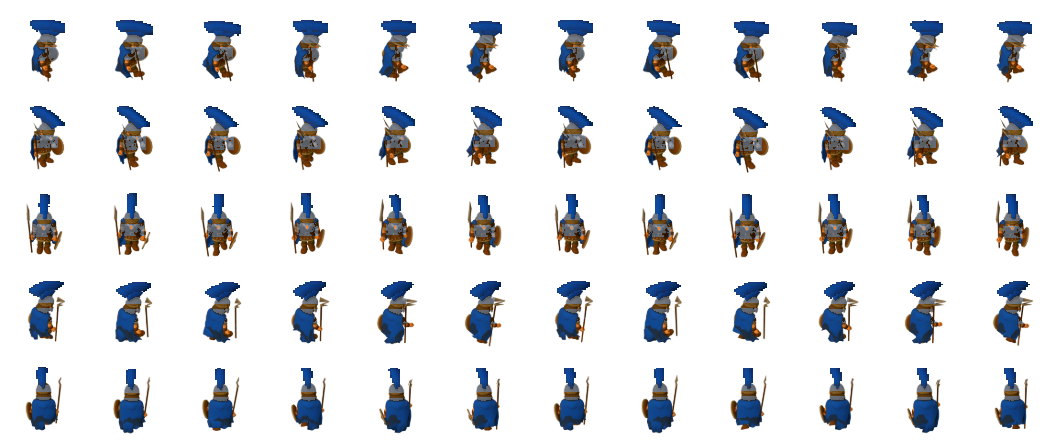
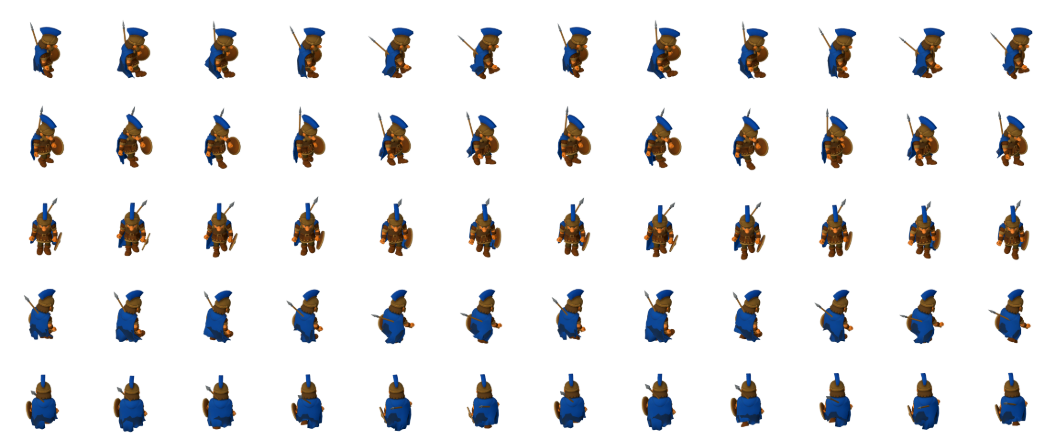
T15 Arbeitsstand: Kinematik-Agent 2 - Faust-Waffen fuer sword/spear (Agent laeuft)
Zwischenstand: Mesh-Klinge/-Speer werden ersetzt (Skinning-Grenze:
Waffen hingen an der Oberarmkette, Ueberkopf unmoeglich - der
"Golfschlag"). Prozedurale kinds sword/spearw in der Sprite-Baeckerei,
sechs Blaetter (sword/spear x atk/walk/idle) gebacken, Agent iteriert
noch am Feinschliff. Abschluss, Sichtpruefung und sw-Bump folgen im
v235-Paket.

Claude-Session: https://claude.ai/code/session_01NJiXwFpbq91ri9gPbhzERB

diff --git a/tools/posen.js b/tools/posen.js
@@ -229,7 +229,7 @@ const SCHAUFELN = [
           L_Upperarm:[33,0,-12], L_Forearm:[-42,0,0],
           Spine01:[-10,-4,0], Head:[6,1,0] }],
 ];
-// ---------- Soldaten (T14) ------------------------------------------------
+// ---------- Soldaten (T14/T16) --------------------------------------------
 // Die Tripo-Angriffs-Clips der Soldaten (1.29 s) ZERFETZEN Helmbusch und
 // Umhang in freischwebende Fragmente, teils fehlen ganze Spalten (s. die
 // zerrissenen Blaetter unit_sword_atk/unit_spear_atk/unit_bow_atk vom
@@ -237,84 +237,93 @@ const SCHAUFELN = [
 // Zerreissen kommt also vom Clip, nicht vom Mesh. Heilung wie bei den
 // Berufen: handgesetzte Schluesselbilder ueber der ruhigen Basis (die
 // Soldaten haben keinen echten Warte-Clip, der Treiber nimmt den
-// Geh-Durchschwung bei 27 %). Die Waffen stecken im Mesh - KEIN
-// prozedurales Werkzeug anbringen (sonst Doppelwaffe). ABER: sie sind
-// NICHT an die Handknochen geskinnt (numerisch geprueft, posekalib):
-// Klinge und Speer haengen an der Oberarmkette (~60 % des Armwinkels,
-// Drehpunkt Schulter), der Bogen an der LINKEN Faust samt Twist-Knochen.
-// Die Posen unten arbeiten innerhalb dieser Grenzen.
+// Geh-Durchschwung bei 27 %).
 //
-// SCHWERT: Hieb von oben-seitlich, der Schild bleibt vorn. Rechter Arm
-// holt uebers rechte Schulterblatt aus (Rumpf dreht Y+ mit), verharrt
-// kurz, dann faellt der Hieb in 0.8 Frames quer nach vorn-unten
-// (Kontakt Spalte 4). Der linke Arm haelt den Schild konstant vor der
-// Brust - er macht den Hieb NICHT mit, das laese sich als Torkeln.
-// GRENZE (numerisch geprueft, pose-sword.png): die Klinge ist NUR an die
-// Oberarmkette geskinnt - R_Hand/R_Forearm bewegen sie gar nicht, sie
-// dreht mit ~60 % des Oberarmwinkels um die SCHULTER. Ausholen ueber den
-// Kopf (Klinge nach hinten-oben) ist damit unerreichbar; das Maximum ist
-// die Diagonale vor der Schulter. Faust-Drehungen bleiben deshalb WEG -
-// sie wuerden die Faust nur sichtbar vom Griff loesen.
+// T16 (Spielerkritik "Golfspielen"): die MESH-Waffen von sword/spear sind
+// NUR an die Oberarmkette geskinnt (~60 % des Armwinkels, Drehpunkt
+// Schulter) - Faust und Ellbogen bewegen sie nicht, mehr als eine flache
+// Diagonale war damit unerreichbar. Darum jetzt die Jaeger-Methode:
+// Mesh-Klinge/-Speer per 'entfernen' raus (Insel-IDs unten, verifiziert
+// ueber Isolationsproben waffe2-sword/waffe3-spear), stattdessen
+// prozedurale Faust-Waffen (kinds 'sword'/'spearw' in bake-sprites.html).
+// Die Waffe haengt an R_Hand - Faust-Drehungen sind WIRKSAM und tragen
+// die Pose. Der SCHILD bleibt im Mesh (sitzt sauber am linken Unterarm).
+// Nur der bow-Soldat behaelt seine Mesh-Waffe (linke Faust, ok).
+//
+// SCHWERT: WUCHTIGER Ueberkopf-Hieb. Faust-Winkel per kalibw-Montagen
+// vermessen (kalib-sword2/3.png) - die Faust-X-Achse wirkt oben und
+// unten GEGENLAEUFIG (Quaternion-Komposition, kein lineares Modell):
+//   Garde (Up40/Fa-55): Hand +40 hebt die Klinge auf ~+45 Grad,
+//   Ausholen (Up165/Fa-100): Hand +10 legt sie ~45 Grad HINTER den Kopf
+//     (Hand -80 kippte sie faelschlich nach VORN - sah aus wie ein Winken),
+//   Kontakt (Up62/Fa-6): Hand -45 stellt sie vor-unten (~-20 Grad;
+//     positive Werte druecken sie senkrecht zu Boden = alter "Golfschlag").
+// Ablauf: Garde - Klinge steigt - volles Ueberkopf-Ausholen mit
+// Rumpf-Aufdrehen (Y+22) - kurzes Verharren - der Hieb kracht in 0.9
+// Frames nach vorn-unten: Arm gestreckt, Rumpf beugt kraeftig vor und
+// dreht gegen, Knie federn. Kontakt Spalte 4, Verharren im Ziel,
+// zurueck. Der linke Arm haelt den Schild konstant vor der Brust.
 const SCHWERTHIEB = [
-  [0,   { R_Upperarm:[32,0,-8],  R_Forearm:[-42,0,0],                // Bereitschaft
+  [0,   { R_Upperarm:[40,0,-8],  R_Forearm:[-55,0,0], R_Hand:[40,0,0],  // Bereitschaft (Garde)
           L_Upperarm:[38,0,-6],  L_Forearm:[-66,0,0],
           Spine01:[-6,6,0], Head:[4,-2,0] }],
-  [1.4, { R_Upperarm:[112,0,-18],R_Forearm:[-74,0,0],                // Klinge steigt
+  [1.2, { R_Upperarm:[112,0,-14],R_Forearm:[-80,0,0], R_Hand:[25,0,0],  // Klinge steigt
           L_Upperarm:[40,0,-6],  L_Forearm:[-68,0,0],
-          Spine01:[8,16,0], Spine02:[3,7,0], Head:[5,-7,0],
+          Spine01:[8,14,0], Spine02:[3,6,0], Head:[5,-6,0],
           R_Thigh:[3,0,0], L_Thigh:[3,0,0] }],
-  [2.4, { R_Upperarm:[154,0,-26],R_Forearm:[-86,0,0],                // volles Ausholen
+  [2.3, { R_Upperarm:[165,0,-18],R_Forearm:[-100,0,0],R_Hand:[-5,0,0],  // Klinge HINTER dem Kopf
+          L_Upperarm:[42,0,-7],  L_Forearm:[-70,0,0],                   // (Hand -5 statt +10: bei
+          Spine01:[16,22,0], Spine02:[7,9,0], Head:[8,-10,0],           // +10 verschwand die Klinge
+          R_Thigh:[4,0,0], L_Thigh:[4,0,0] }],                          // auf 35px im Helmbusch)
+  [3.1, { R_Upperarm:[158,0,-17],R_Forearm:[-95,0,0], R_Hand:[-6,0,0],  // Verharren oben
           L_Upperarm:[42,0,-7],  L_Forearm:[-70,0,0],
-          Spine01:[14,24,0], Spine02:[6,10,0], Head:[7,-10,0],
+          Spine01:[14,20,0], Spine02:[6,8,0], Head:[8,-9,0],
           R_Thigh:[4,0,0], L_Thigh:[4,0,0] }],
-  [3.2, { R_Upperarm:[146,0,-24],R_Forearm:[-82,0,0],                // Verharren oben
-          L_Upperarm:[42,0,-7],  L_Forearm:[-70,0,0],
-          Spine01:[12,22,0], Spine02:[5,9,0], Head:[7,-9,0],
-          R_Thigh:[4,0,0], L_Thigh:[4,0,0] }],
-  [4,   { R_Upperarm:[62,0,6],   R_Forearm:[-6,0,0],                 // KONTAKT
+  [4,   { R_Upperarm:[62,0,4],   R_Forearm:[-6,0,0],  R_Hand:[-45,0,0], // KONTAKT
           L_Upperarm:[40,0,-6],  L_Forearm:[-62,0,0],
-          Spine01:[-22,-14,0], Spine02:[-9,-6,0], Head:[12,6,0],
-          R_Thigh:[-7,0,0], R_Calf:[9,0,0], L_Thigh:[-6,0,0], L_Calf:[8,0,0] }],
-  [5,   { R_Upperarm:[66,0,4],   R_Forearm:[-10,0,0],                // Klinge steht
+          Spine01:[-30,-12,0], Spine02:[-11,-5,0], Head:[15,5,0],
+          R_Thigh:[-8,0,0], R_Calf:[10,0,0], L_Thigh:[-7,0,0], L_Calf:[9,0,0] }],
+  [5,   { R_Upperarm:[66,0,3],   R_Forearm:[-10,0,0], R_Hand:[-42,0,0], // Klinge steht im Ziel
           L_Upperarm:[40,0,-6],  L_Forearm:[-64,0,0],
-          Spine01:[-20,-12,0], Spine02:[-8,-5,0], Head:[11,5,0],
-          R_Thigh:[-6,0,0], R_Calf:[8,0,0], L_Thigh:[-5,0,0], L_Calf:[7,0,0] }],
-  [6.5, { R_Upperarm:[44,0,-8],  R_Forearm:[-36,0,0],                // zurueck
+          Spine01:[-27,-10,0], Spine02:[-10,-4,0], Head:[14,4,0],
+          R_Thigh:[-7,0,0], R_Calf:[9,0,0], L_Thigh:[-6,0,0], L_Calf:[8,0,0] }],
+  [6.5, { R_Upperarm:[46,0,-8],  R_Forearm:[-40,0,0], R_Hand:[-10,0,0], // zurueck zur Garde
           L_Upperarm:[39,0,-6],  L_Forearm:[-67,0,0],
           Spine01:[-10,2,0], Head:[6,0,0] }],
 ];
-// SPEER: Stoss nach vorn-oben. GRENZE (numerisch geprueft, pose-spear.png):
-// der Speer ist wie die Klinge NUR an die Oberarmkette geskinnt - Faust
-// und Ellbogen bewegen ihn nicht, er dreht mit ~60 % des Oberarmwinkels
-// um die SCHULTER und loest sich bei gestrecktem Arm sichtbar von der
-// Faust. Ein waagerechter Stoss ist damit unerreichbar; das Machbare ist
-// der DIAGONALE Stoss (Speer ~55 Grad, Spitze vor-oben) mit kraeftigem
-// Koerper-Ausfall. Damit die Faust optisch am Schaft bleibt, ist der
-// Ellbogen am Kontakt mitgebeugt (Up105/Fa-45 aus der Montage - bei
-// Fa-6 stand die Faust eine halbe Handbreit neben dem Schaft).
+// SPEER: Stoss auf Hueft-Hoehe. Faust-Winkel per kalibw-Montagen vermessen
+// (kalib-spear1/2.png): am Kontakt macht Hand X-50 den Schaft exakt
+// WAAGERECHT (h-24 zeigte 35 Grad hoch, h-75 kippte in den Boden); die
+// Spannpose W4 (Up4/Fa-30/Hand-55) legt ihn waagerecht AN DIE HUEFTE -
+// ein weiter zurueckgerissener Arm (Up -30) versteckte den Speer komplett
+// hinter Ruecken und Umhang, nur die Spitze lugte am Helm hervor.
+// Ablauf: Bereitschaft diagonal - zuruecknehmen an die Huefte (Gewicht
+// hinten, Rumpf-Yaw +26 auf) - gespannt verharren - STOSS: Arm streckt
+// nach vorn, Schaft bleibt waagerecht, Rumpf dreht kraeftig gegen (Y-16)
+// und lehnt in den Ausfall, Knie federn. Kontakt Spalte 4.
 const SPEERSTOSS = [
-  [0,   { R_Upperarm:[4,0,-4],   R_Forearm:[-10,0,0],                // Bereitschaft
+  [0,   { R_Upperarm:[16,0,-4],  R_Forearm:[-14,0,0], R_Hand:[-25,0,0], // Bereitschaft (diagonal)
           L_Upperarm:[26,0,-10], L_Forearm:[-44,0,0],
           Spine01:[-4,4,0], Head:[3,0,0] }],
-  [1.6, { R_Upperarm:[-12,0,-8], R_Forearm:[-26,0,0],                // zuruecknehmen
+  [1.6, { R_Upperarm:[8,0,-5],   R_Forearm:[-24,0,0], R_Hand:[-42,0,0], // an die Huefte nehmen
           L_Upperarm:[40,0,-16], L_Forearm:[-56,0,0],
-          Spine01:[5,18,0], Spine02:[2,8,0], Head:[2,-8,0],
-          R_Thigh:[2,0,0], L_Thigh:[2,0,0] }],
-  [3.2, { R_Upperarm:[-18,0,-10],R_Forearm:[-34,0,0],                // gespannt
-          L_Upperarm:[44,0,-18], L_Forearm:[-60,0,0],
-          Spine01:[7,22,0], Spine02:[3,10,0], Head:[2,-10,0],
+          Spine01:[6,22,0], Spine02:[2,9,0], Head:[2,-9,0],
           R_Thigh:[3,0,0], L_Thigh:[3,0,0] }],
-  [4,   { R_Upperarm:[105,0,4],  R_Forearm:[-45,0,0],                // KONTAKT (Stoss)
+  [3.2, { R_Upperarm:[4,0,-6],   R_Forearm:[-30,0,0], R_Hand:[-55,0,0], // gespannt, Gewicht hinten
+          L_Upperarm:[44,0,-18], L_Forearm:[-60,0,0],
+          Spine01:[8,26,0], Spine02:[3,11,0], Head:[2,-11,0],
+          R_Thigh:[4,0,0], L_Thigh:[4,0,0] }],
+  [4,   { R_Upperarm:[52,0,2],   R_Forearm:[-6,0,0],  R_Hand:[-50,0,0], // KONTAKT (Stoss, waagerecht)
           L_Upperarm:[46,0,-24], L_Forearm:[-30,0,0],
-          Spine01:[-18,-14,0], Spine02:[-7,-6,0], Head:[10,7,0],
-          R_Thigh:[-7,0,0], R_Calf:[9,0,0], L_Thigh:[-5,0,0], L_Calf:[7,0,0] }],
-  [5,   { R_Upperarm:[98,0,2],   R_Forearm:[-44,0,0],                // steckt
+          Spine01:[-20,-16,0], Spine02:[-8,-7,0], Head:[11,7,0],
+          R_Thigh:[-8,0,0], R_Calf:[10,0,0], L_Thigh:[-6,0,0], L_Calf:[8,0,0] }],
+  [5,   { R_Upperarm:[48,0,1],   R_Forearm:[-10,0,0], R_Hand:[-47,0,0], // steckt
           L_Upperarm:[44,0,-22], L_Forearm:[-34,0,0],
-          Spine01:[-16,-12,0], Spine02:[-6,-5,0], Head:[9,6,0],
-          R_Thigh:[-6,0,0], R_Calf:[8,0,0], L_Thigh:[-4,0,0], L_Calf:[6,0,0] }],
-  [6.5, { R_Upperarm:[30,0,-4],  R_Forearm:[-20,0,0],                // herausziehen
+          Spine01:[-18,-14,0], Spine02:[-7,-6,0], Head:[10,6,0],
+          R_Thigh:[-7,0,0], R_Calf:[9,0,0], L_Thigh:[-5,0,0], L_Calf:[7,0,0] }],
+  [6.5, { R_Upperarm:[24,0,-4],  R_Forearm:[-20,0,0], R_Hand:[-34,0,0], // herausziehen
           L_Upperarm:[34,0,-14], L_Forearm:[-42,0,0],
-          Spine01:[-4,0,0], Head:[4,0,0] }],
+          Spine01:[-4,2,0], Head:[4,0,0] }],
 ];
 // BOGENSCHUSS: heben - spannen - LÖSEN (Spalte 4) - absetzen. Kalibriert
 // am Jaeger (T13), der den prozeduralen Bogen in der RECHTEN Faust traegt.
@@ -401,9 +410,29 @@ export const POSEN = {
   leveler:    { atk: SCHAUFELN,  werkzeug: IN_FAUST('shovel',1.4,[-90,0,0]),
                 entfernen:[372,238,406,448,231,99,111,464,465,94,105,390,310,1759,29,289,256,410,2,86,389,239,178,270,386,1711,138,309,400,363,375,557,621,72,411,443,398,408,474,23,224,261,419,342,325,355,444,762,39,169,68,208,104,120,121,110,198,125,287,299,332,356,379,361,403,404,385,402,450,451,579] },
   fisher:  { koerper: DICK, atk: ANGELN, werkzeug: IN_FAUST('rod',1.25) },
-  // Soldaten: Waffen stecken im Mesh, darum KEIN werkzeug-Eintrag (T14)
-  sword:   { atk: SCHWERTHIEB },
-  spear:   { atk: SPEERSTOSS },
+  // Soldaten (T16): sword/spear tragen jetzt PROZEDURALE Faust-Waffen -
+  // die Mesh-Waffen (nur Oberarm-geskinnt, "Golfschlag"-Grenze) fliegen
+  // per 'entfernen' raus. Der Schild bleibt im Mesh. Insel-IDs verifiziert
+  // ueber Isolationsproben (Waffe komplett isoliert, Figur+Faust+Schild
+  // unversehrt). Beim Speer haengt der Mesh-Schaft an Oberarm UND Zehe
+  // (wie der Jaeger-Bogen) samt Bodenkappen-Fragmenten bei y=0.
+  sword:   { atk: SCHWERTHIEB,
+             entfernen:[911,21,22],
+             werkzeug:{
+               walk:{ kind:'sword', bone:'R_Hand', pos:[0,0.02,0], rot:[155,0,0], scale:1.25 },
+               idle:{ kind:'sword', bone:'R_Hand', pos:[0,0.02,0], rot:[155,0,0], scale:1.25 },
+               atk: { kind:'sword', bone:'R_Hand', pos:[0,0.02,0], rot:[90,0,0],  scale:1.25 },
+             } },
+  spear:   { atk: SPEERSTOSS,
+             entfernen:[3026,1703,2264,2943,1639,1882,1479,2253,2254,1873,1884,2150,2556,2831,3029,3036,2941,2935,2630,2693,2695,3039,2552,3021,3028,3126,3230,2931,2153,2265,2575,2267,2567,2465,2272,2543,3038,2562,2687,2628,2627,2689,2788,2942],
+             // Trage-Rotation per kalibrot-spear.png vermessen: [0,0,0]
+             // liess den Schaft nach vorn-unten haengen (schleifender
+             // Speer), [150,0,0] schultert ihn (Spitze schraeg hinter-oben)
+             werkzeug:{
+               walk:{ kind:'spearw', bone:'R_Hand', pos:[0,-0.05,0], rot:[150,0,0], scale:1.25 },
+               idle:{ kind:'spearw', bone:'R_Hand', pos:[0,-0.05,0], rot:[150,0,0], scale:1.25 },
+               atk: { kind:'spearw', bone:'R_Hand', pos:[0,0.02,0],  rot:[90,0,0],  scale:1.25 },
+             } },
   bow:     { atk: BOGENSCHUSS_SPIEGEL },
   butcher: { koerper: DICK },
   miller:  { koerper: RUNDLICH },

diff --git a/tools/bake-sprites.html b/tools/bake-sprites.html
@@ -169,7 +169,7 @@ const TOOL_MATS={ wood:0x7a5a33, woodDark:0x5d4426, steel:0x767d83, steelDark:0x
 function mat(c){ return new THREE.MeshStandardMaterial({ color:c, roughness:0.75, metalness:0.05 }); }
 let toolGroups=[];
 window.toolClear=()=>{ toolGroups.forEach(g=>{ if(g.parent) g.parent.remove(g); }); toolGroups=[]; };
-// kind: axe|shovel|pick|hammer|chisel|mallet|scythe|rod|sack|bow
+// kind: axe|shovel|pick|hammer|chisel|mallet|scythe|rod|sack|bow|sword|spearw
 // Grundausrichtung: Stiel entlang +Y (aus der Faust nach oben), Kopf am +Y-Ende.
 // bow: Griff im Ursprung, Wurfarme entlang ±Y, Bogenbauch zeigt nach +Z,
 // Sehne parallel dazu bei z≈0.10 – Bogenebene ist die YZ-Ebene.
@@ -220,6 +220,24 @@ window.toolAttach=(kind, boneName, pos=[0,0,0], rotDeg=[0,0,0], scale=1)=>{
     const s=new THREE.Mesh(new THREE.SphereGeometry(0.085,7,6), mat(0xa3814e));
     s.scale.set(1,1.2,0.85); s.position.y=0.05; gph.add(s);
     const kragen=cyl(0.03,0.04,0.05,mat(0x8a6f42)); kragen.position.y=0.15; gph.add(kragen);
+  } else if(kind==='sword'){
+    // Schwert (T16, Soldaten): gerade Klinge entlang +Y, Parierstange,
+    // kurzer dunkler Griff mit Knauf unter der Faust. Gesamt ~0.42 -
+    // die Klinge BREIT genug, dass sie auf 35px Spielgroesse liest.
+    const knauf=cyl(0.016,0.016,0.024,wood2); knauf.position.y=-0.062; gph.add(knauf);
+    const griff=cyl(0.011,0.012,0.075,wood2); griff.position.y=-0.012; gph.add(griff);
+    const parier=box(0.104,0.018,0.024,steel2); parier.position.y=0.032; gph.add(parier);
+    // Klinge bewusst BREIT (0.046): auf 35px Spielgroesse blieb die
+    // 0.036er-Klinge im Ausholen fast unsichtbar (spielgroesse.png)
+    const klinge=box(0.046,0.27,0.014,steel); klinge.position.y=0.175; gph.add(klinge);
+    const spitze=box(0.026,0.06,0.012,steel); spitze.position.y=0.335; gph.add(spitze);
+  } else if(kind==='spearw'){
+    // Speer (T16, Soldaten): schlanker Schaft ~0.55, blattfoermige Spitze
+    // (zwei 4-seitige Pyramiden Basis an Basis, flachgedrueckt).
+    const st=cyl(0.010,0.012,0.55,wood); st.position.y=0.175; gph.add(st);
+    const zw=cyl(0.014,0.014,0.02,steel2); zw.position.y=0.455; gph.add(zw);
+    const b1=cyl(0.001,0.030,0.075,steel); b1.position.y=0.525; b1.scale.z=0.45; gph.add(b1);
+    const b2=cyl(0.030,0.001,0.035,steel); b2.position.y=0.470; b2.scale.z=0.45; gph.add(b2);
   } else if(kind==='bow'){
     // Jagdbogen: Griff + je zwei zunehmend gebogene Wurfarm-Segmente,
     // Sehne als dünner Zylinder zwischen den Spitzen (YZ-Ebene)
